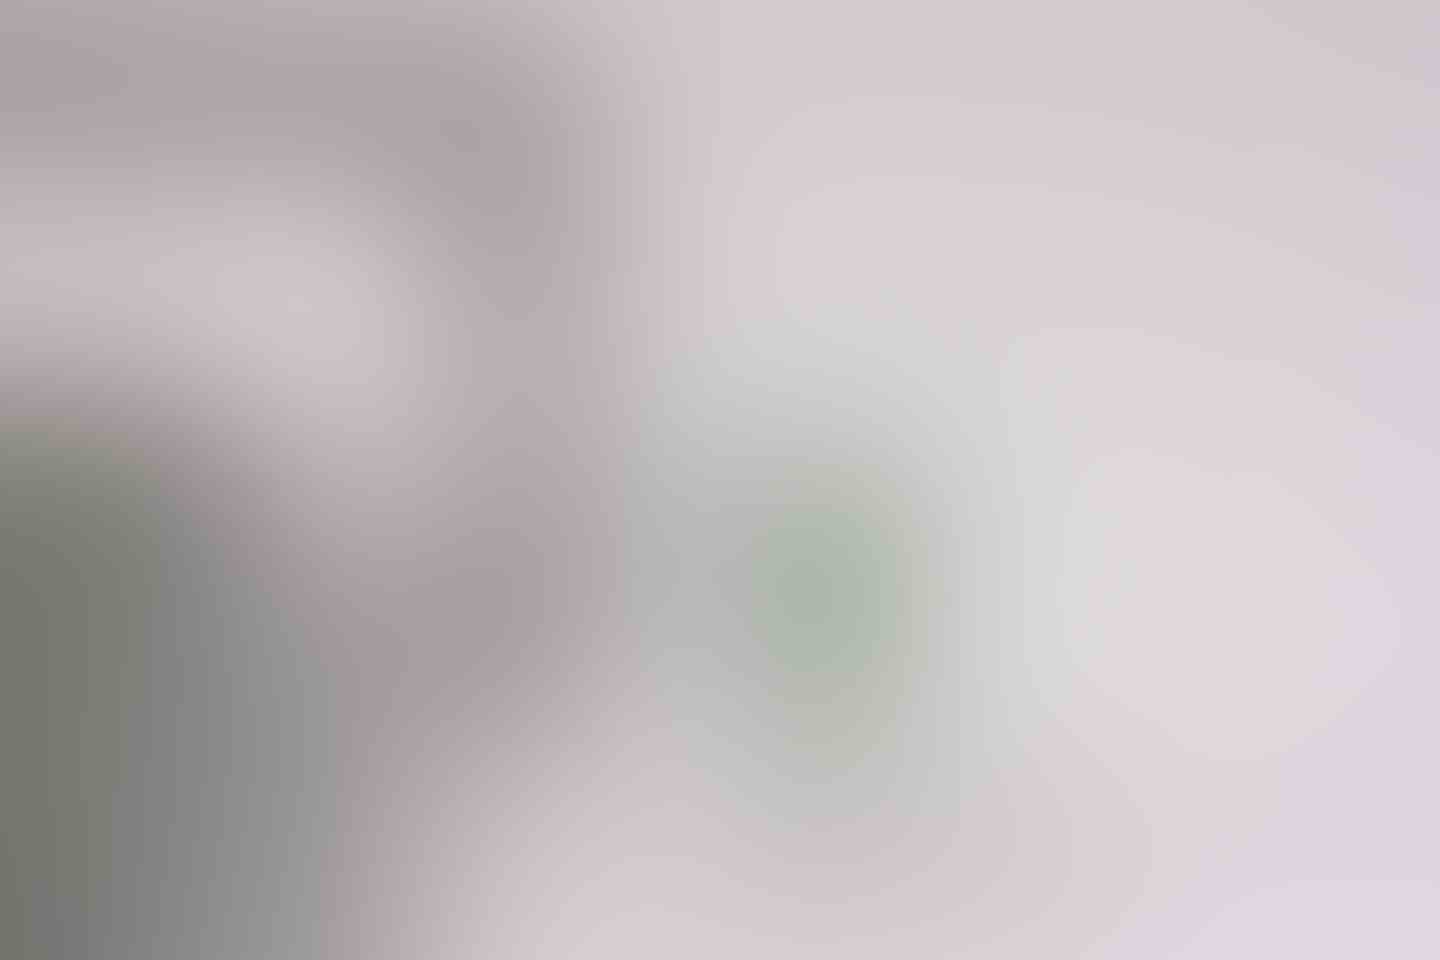
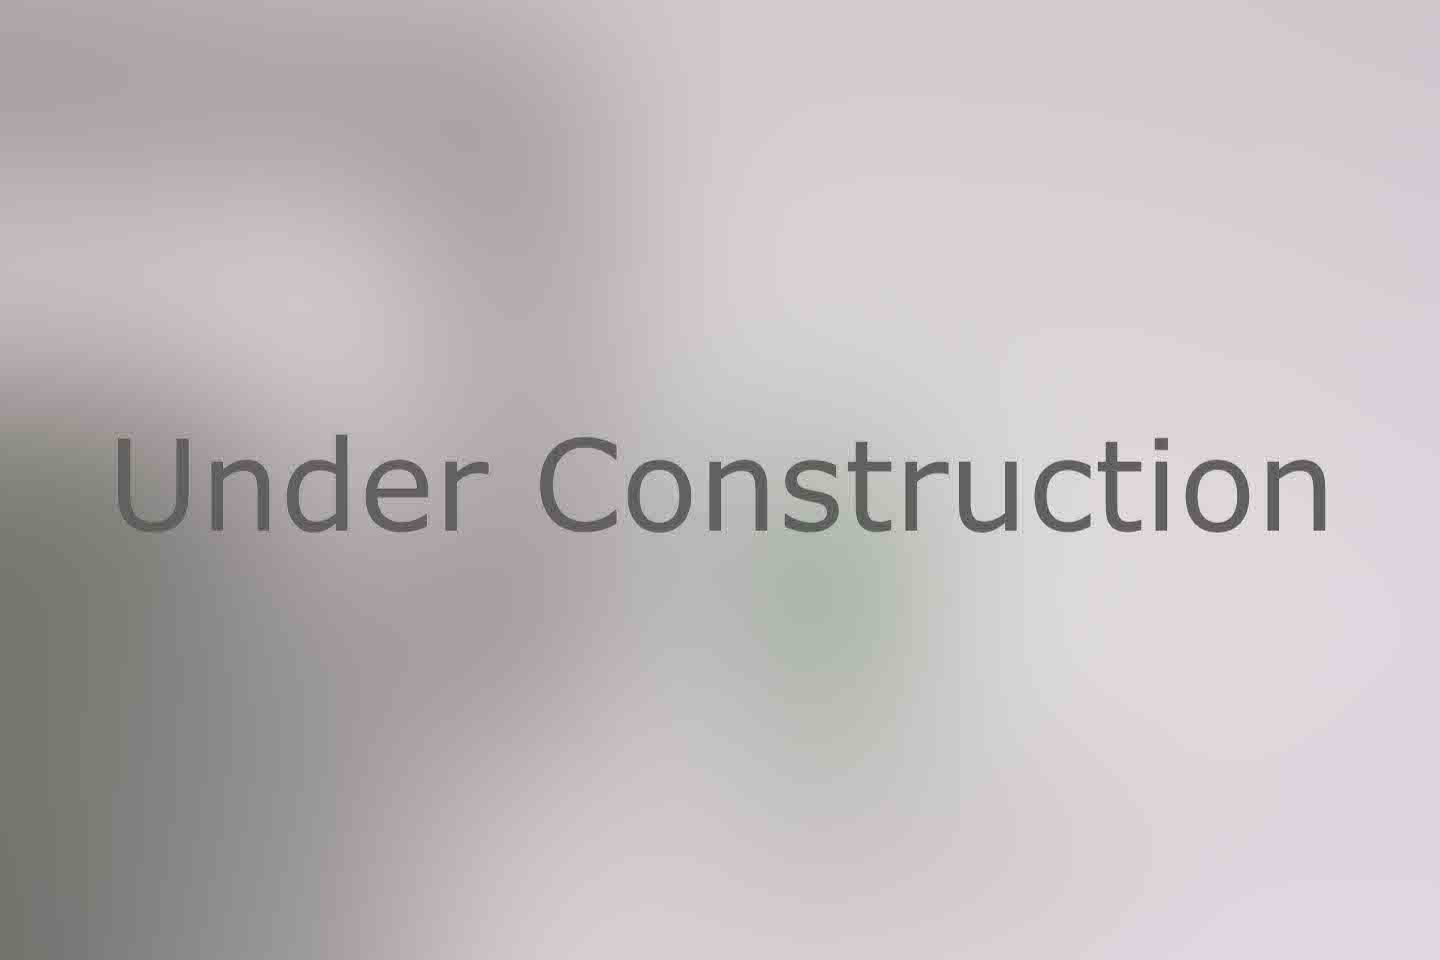
hoover remove add font

Changed region(s): [[0.375, 0.4375, 0.9375, 0.5625], [0.0625, 0.4375, 0.3438, 0.5625]]

diff --git a/interfacedesigns.html b/interfacedesigns.html
@@ -22,13 +22,8 @@ layout: home
                 
                 <div class="row">
                         <div class="image-tile hover-tile text-center">
-                                <img alt="image" class="background-image" src="img/blog-single-4.jpg" width="600" height="400">
-                                <div class="hover-state">
-                                    <a href="#">
-                                        <h3 class="uppercase mb8">Under Construction</h3>
-                                        <!-- <h6 class="uppercase">Product Design</h6> -->
-                                    </a>
-                                </div>
+                                <img alt="image" class="background-image" src="img/blog-single-4.jpg" width="600" height="400"          
+                                
                         </div>
                 </div>
 
